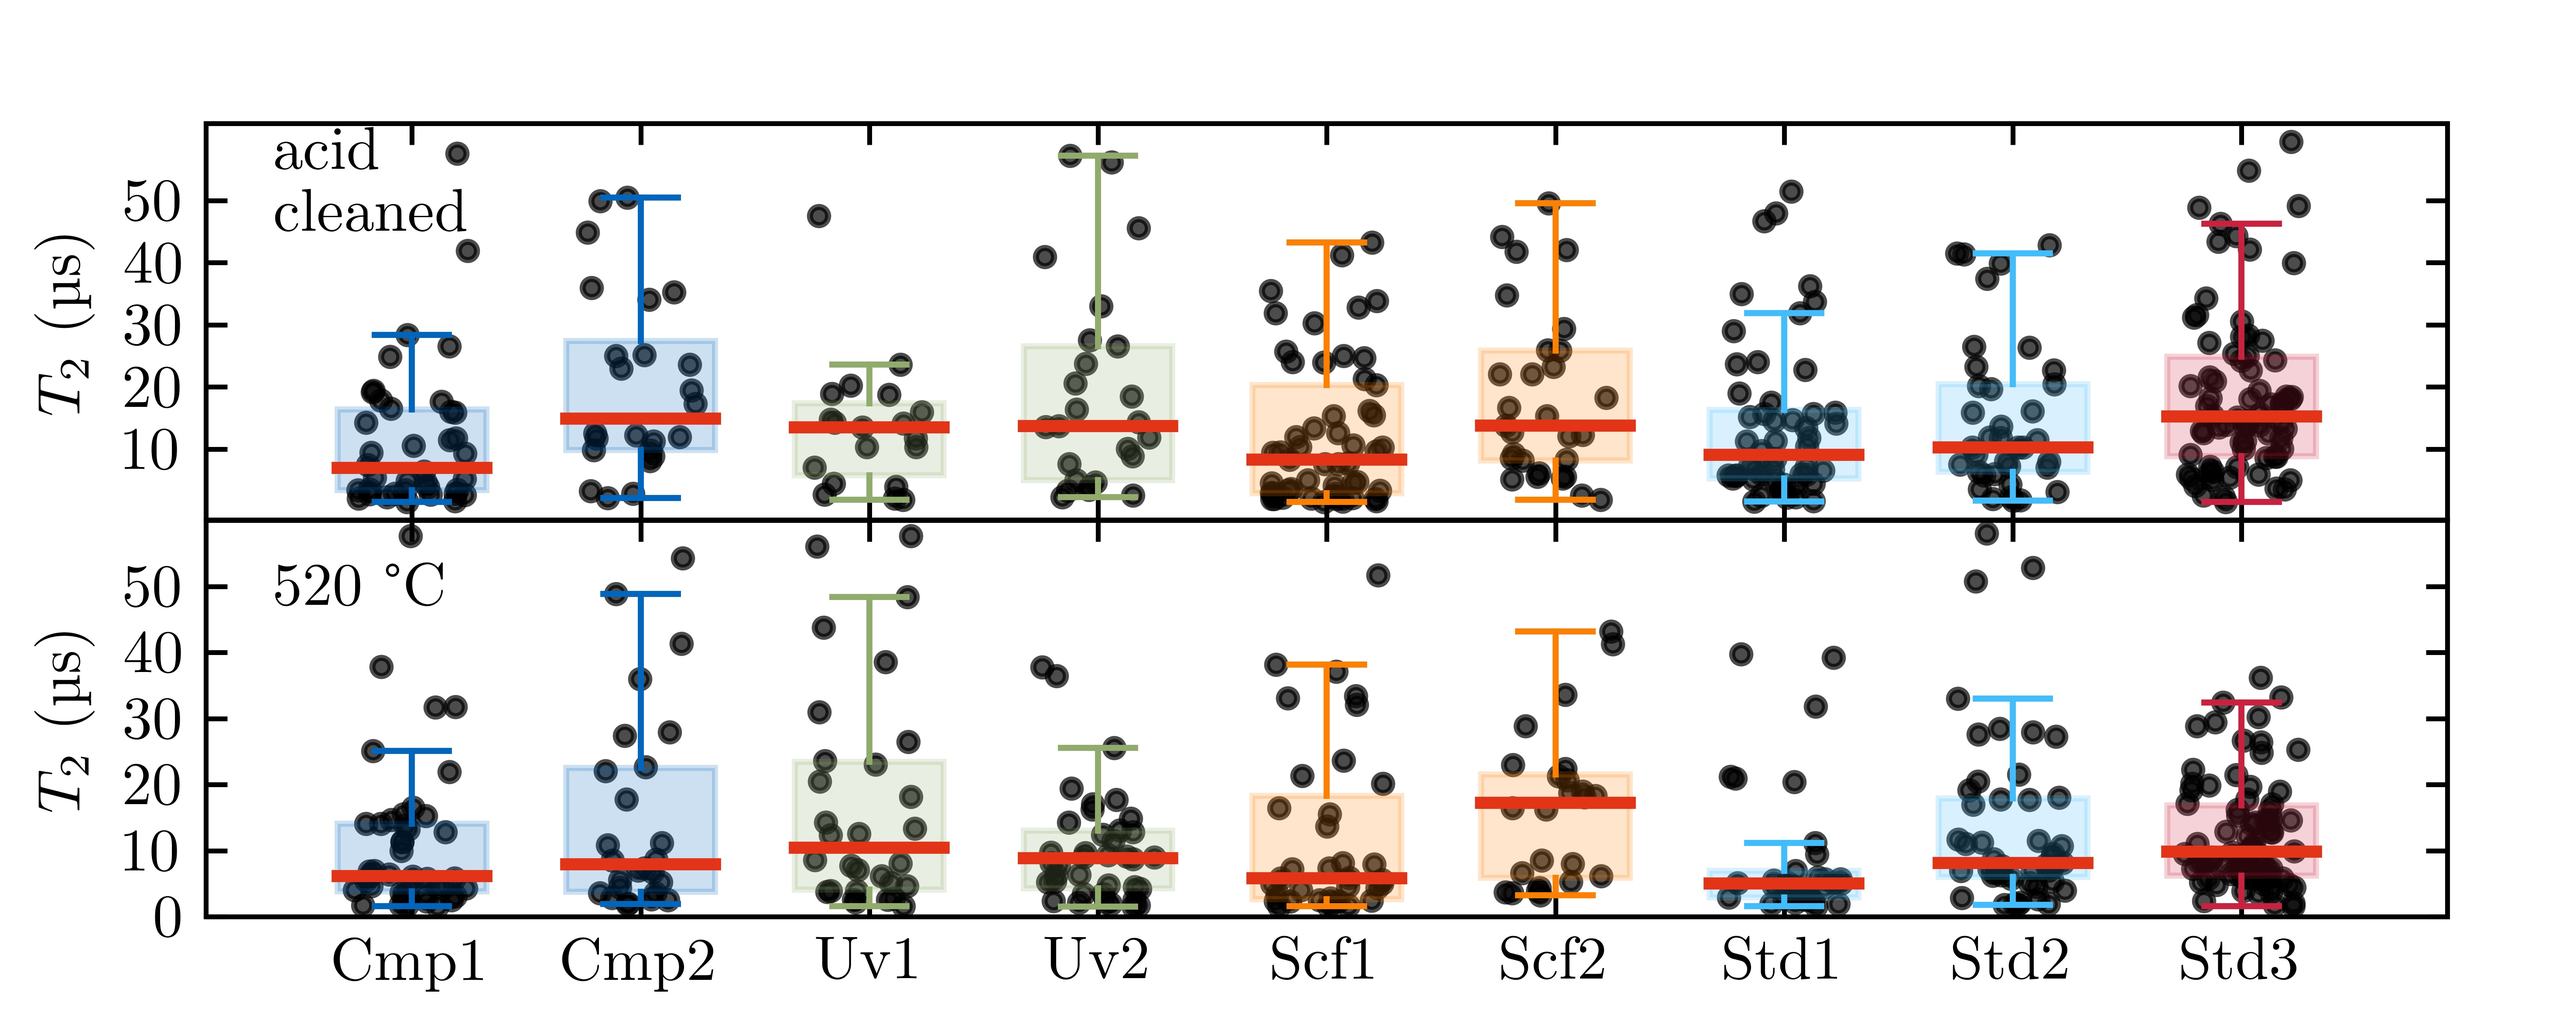
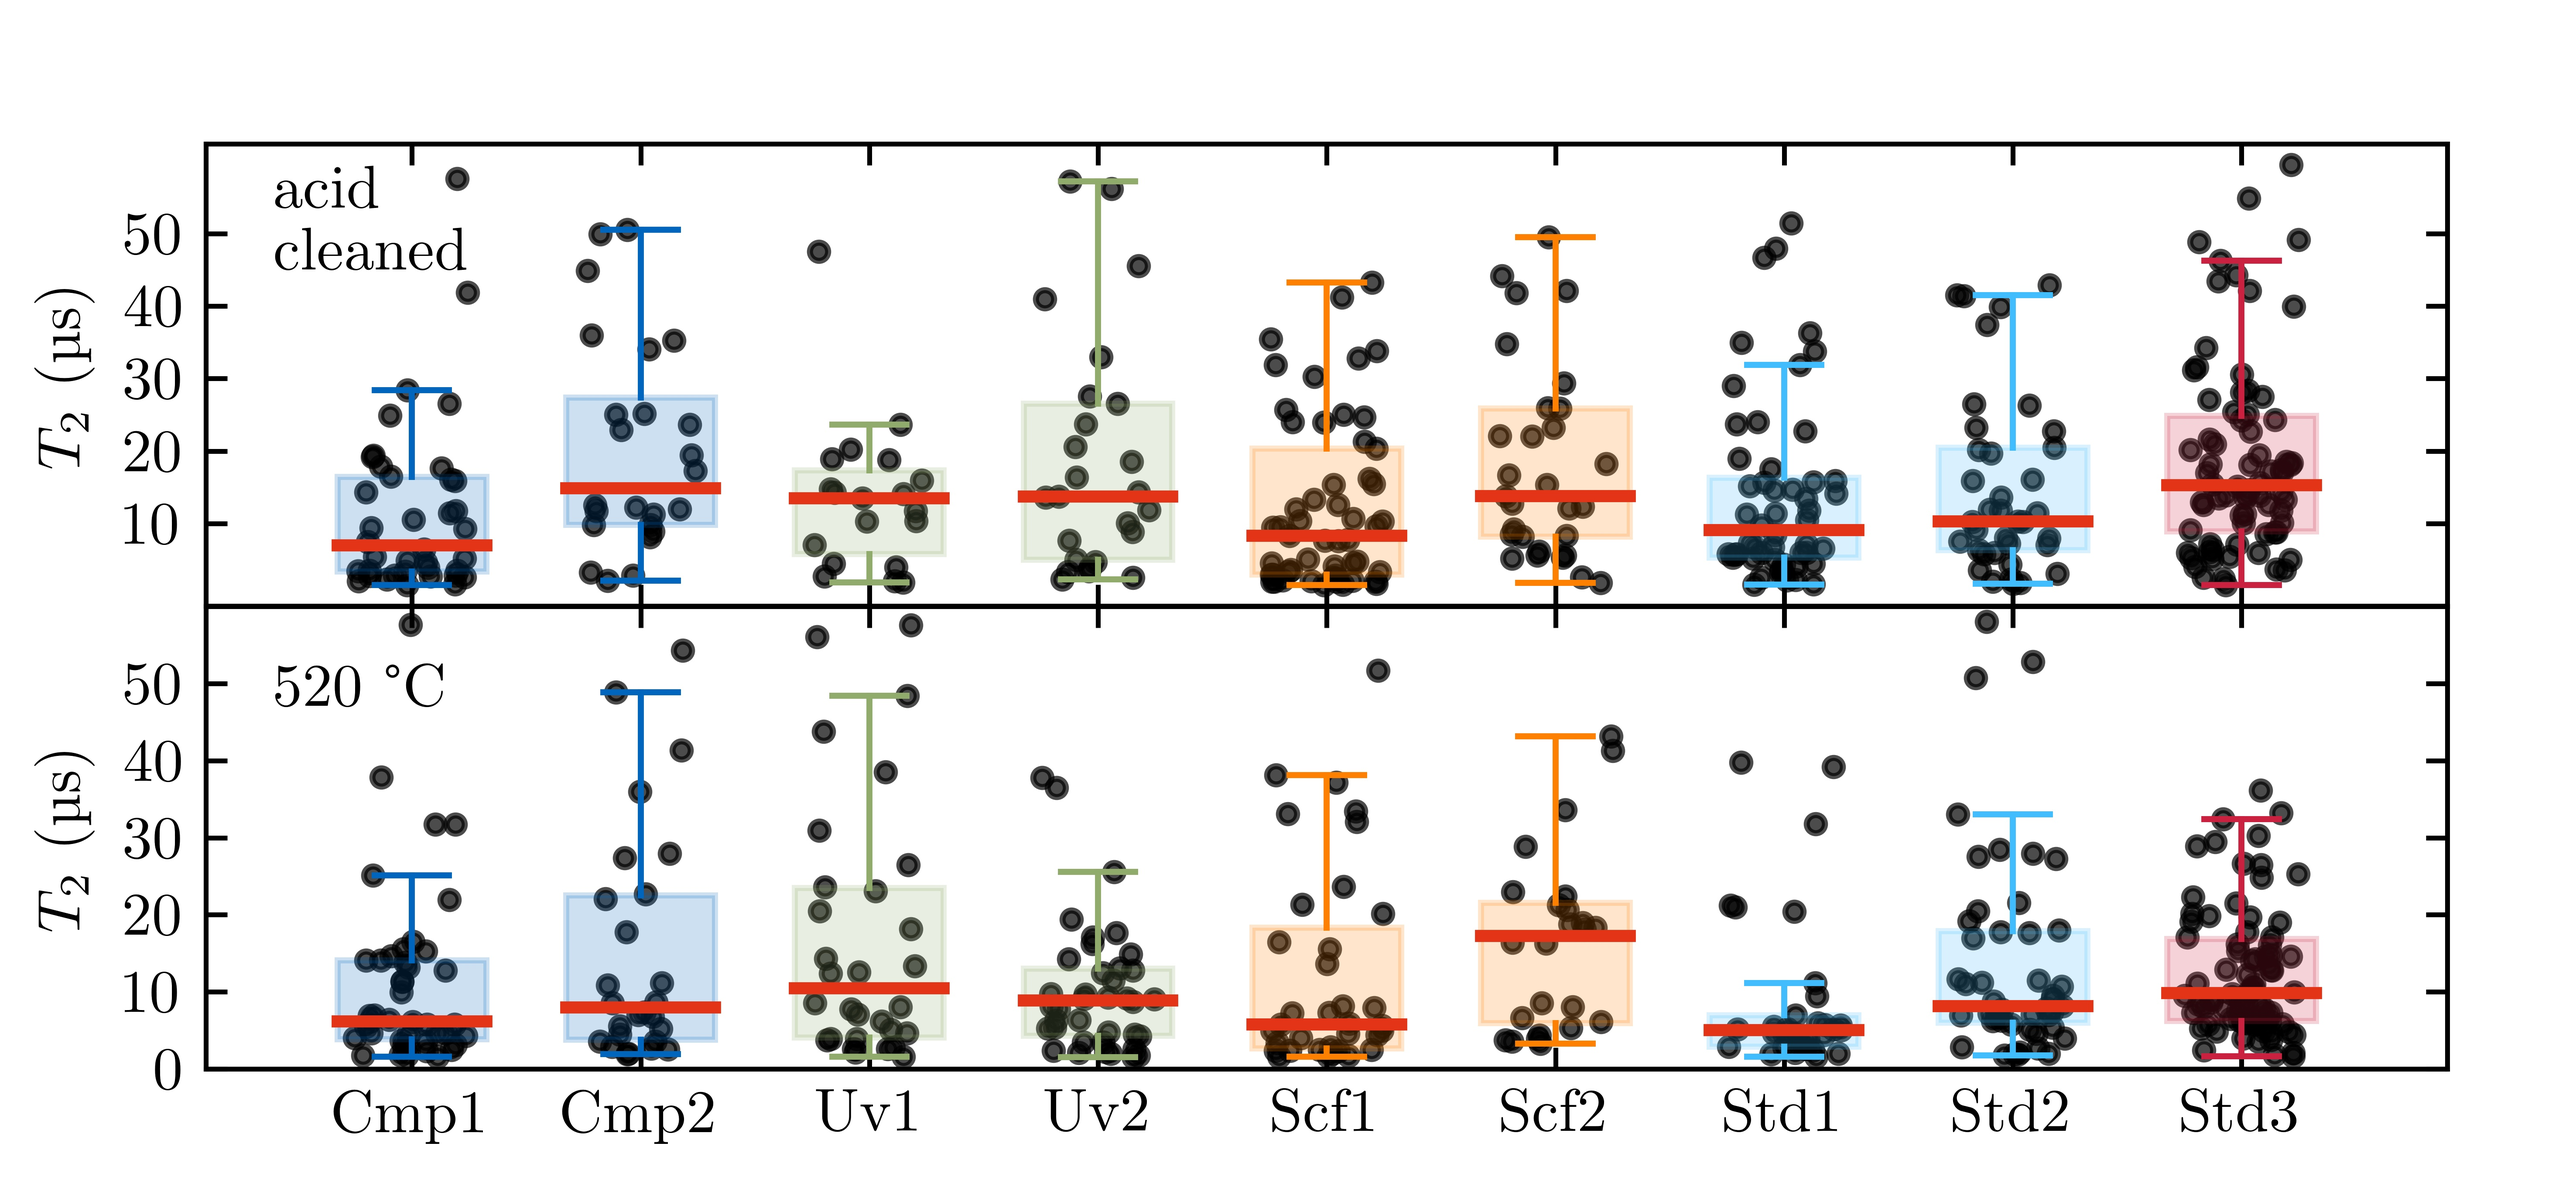
chapter6/h1_t2

diff --git a/images/chapter_6/oxidation_calibration.py b/images/chapter_6/oxidation_calibration.py
@@ -1,11 +1,11 @@
 # -*- coding: utf-8 -*-
 import glob
 import os
-import random
 
 import matplotlib.pyplot as plt
 import numpy
 
+from images.chapter_6.box_plot_functions import load_t2s_in_us, remove_average, create_random_x_offsets
 from util import tum_jet
 from util.inches import cm_to_inch
 
@@ -19,12 +19,13 @@ class OxidationCalibrationPlotter:
         self.lower_limit = 1.5
         self.box_color = tum_jet.tum_color(4)
         self.median_color = tum_jet.tum_color(5)
+        self.box_width = 0.4
 
     def plot(self):
 
         fig = plt.figure(figsize=(cm_to_inch(15), cm_to_inch(7)))
         t2s = self.__load_t2s()
-        xs = self.__create_random_x_offsets(t2s)
+        xs = create_random_x_offsets(t2s, self.box_width)
 
         self.__plot_boxes_and_datapoints(t2s, xs)
 
@@ -37,28 +38,18 @@ class OxidationCalibrationPlotter:
     def __plot_boxes_and_datapoints(self, t2s, xs):
         for t2_index, t2s_of_current_step in enumerate(t2s):
             plt.plot(xs[t2_index][:] + t2_index, t2s_of_current_step[:], '.k', alpha=0.7)
-            plt.boxplot(t2s_of_current_step[:], positions=[t2_index], widths=0.4, patch_artist=True,
+            plt.boxplot(t2s_of_current_step[:], positions=[t2_index], widths=self.box_width, patch_artist=True,
                         boxprops={'color': self.box_color, 'alpha': 0.2, 'facecolor': self.box_color},
                         whiskerprops={'color': self.box_color},
                         capprops={'color': self.box_color},
                         medianprops={'color': self.median_color, 'linewidth': 2},
                         showfliers=False)
 
-    @staticmethod
-    def __create_random_x_offsets(t2s):
-        xs = []
-        for t2 in t2s:
-            xs_of_this_step = numpy.zeros_like(t2)
-            for x_index in range(len(xs_of_this_step)):
-                xs_of_this_step[x_index] = random.uniform(-0.2, 0.2)
-            xs.append(xs_of_this_step)
-        return xs
-
     def __load_t2s(self):
         t2s = []
         for preparation_step in self.files:
-            t2s_of_this_step = self.__load_t2s_in_us(preparation_step)
-            self.__remove_average(t2s_of_this_step)
+            t2s_of_this_step = load_t2s_in_us(preparation_step)
+            remove_average(t2s_of_this_step)
             t2s_of_this_step = self.__remove_outliers(t2s_of_this_step)
             t2s.append(t2s_of_this_step)
         return t2s
@@ -67,16 +58,6 @@ class OxidationCalibrationPlotter:
         t2 *= (t2 < self.upper_limit)
         t2 *= (t2 > self.lower_limit)
         t2 = numpy.trim_zeros(numpy.sort(t2))
-        return t2
-
-    @staticmethod
-    def __remove_average(t2):
-        t2[-1] = 0
-
-    @staticmethod
-    def __load_t2s_in_us(preparation_step):
-        t2 = numpy.loadtxt(preparation_step + ".txt")
-        t2 /= 1000
         return t2
 
     def __get_file_names_ordered_chronologically(self):

diff --git a/images/chapter_6/h1_t2.py b/images/chapter_6/h1_t2.py
@@ -1,0 +1,71 @@
+import glob
+import os
+
+import matplotlib.pyplot as plt
+import numpy
+
+from images.chapter_6.box_plot_functions import load_t2s_in_us, remove_average, create_random_x_offsets
+from util import tum_jet
+from util.inches import cm_to_inch
+
+
+class H1T2Plotter:
+
+    def __init__(self):
+        self.data_folder = "h1_t2"
+        self.files = self.__get_file_names()
+        self.upper_limit = 60
+        self.lower_limit = 1.5
+        self.box_color = tum_jet.tum_color(4)
+        self.median_color = tum_jet.tum_color(5)
+        self.box_width = 0.25
+
+    def plot(self):
+        fig = plt.figure(figsize=(cm_to_inch(15), cm_to_inch(7)))
+        t2s = self.__load_t2s()
+        xs = create_random_x_offsets(t2s, self.box_width)
+
+        self.__plot_boxes_and_datapoints(t2s, xs)
+
+        plt.ylabel('$T_2$ (µs)')
+        plt.xlim([-0.6, 1.6])
+        plt.xticks(range(0, 2), ['acid \ncleaned', '520°C'])
+        plt.tight_layout()
+        fig.savefig(os.path.join(self.data_folder, 'h1_t2.jpg'), dpi=600)
+
+    def __get_file_names(self):
+        files = []
+        for file in glob.glob(os.path.join(self.data_folder, "*.txt")):
+            files.append(file.split('.')[0])
+        return files
+
+    def __load_t2s(self):
+        t2s = []
+        for preparation_step in self.files:
+            t2s_of_this_step = load_t2s_in_us(preparation_step)
+            remove_average(t2s_of_this_step)
+            t2s_of_this_step = self.__remove_outliers(t2s_of_this_step)
+            t2s.append(t2s_of_this_step)
+        return t2s
+
+    def __remove_outliers(self, t2):
+        t2 *= (t2 < self.upper_limit)
+        t2 *= (t2 > self.lower_limit)
+        t2 = numpy.trim_zeros(numpy.sort(t2))
+        return t2
+
+    def __plot_boxes_and_datapoints(self, t2s, xs):
+        for t2_index, t2s_of_current_step in enumerate(t2s):
+            print(numpy.median(t2s_of_current_step))
+            plt.plot(xs[t2_index][:] + t2_index, t2s_of_current_step[:], '.k', alpha=0.7)
+            plt.boxplot(t2s_of_current_step[:], positions=[t2_index], widths=self.box_width, patch_artist=True,
+                        boxprops={'color': self.box_color, 'alpha': 0.2, 'facecolor': self.box_color},
+                        whiskerprops={'color': self.box_color},
+                        capprops={'color': self.box_color},
+                        medianprops={'color': self.median_color, 'linewidth': 2},
+                        showfliers=False)
+
+
+if __name__ == '__main__':
+    plotter = H1T2Plotter()
+    plotter.plot()

diff --git a/images/chapter_6/box_plot_functions.py b/images/chapter_6/box_plot_functions.py
@@ -1,0 +1,23 @@
+import random
+
+import numpy
+
+
+def load_t2s_in_us(preparation_step):
+    t2 = numpy.loadtxt(preparation_step + ".txt")
+    t2 /= 1000
+    return t2
+
+
+def remove_average(t2):
+    t2[-1] = 0
+
+
+def create_random_x_offsets(t2s, width):
+    xs = []
+    for t2 in t2s:
+        xs_of_this_step = numpy.zeros_like(t2)
+        for x_index in range(len(xs_of_this_step)):
+            xs_of_this_step[x_index] = random.uniform(-width/2, width/2)
+        xs.append(xs_of_this_step)
+    return xs

diff --git a/images/chapter_6/t2_comparison.py b/images/chapter_6/t2_comparison.py
@@ -27,7 +27,7 @@ class ComparisonPlotter:
 
         xs = self.__create_random_xs(all_t2s_without_n)
 
-        fig = pylab.figure(figsize=(cm_to_inch(15), cm_to_inch(6)))
+        fig = pylab.figure(figsize=(cm_to_inch(15), cm_to_inch(7)))
         pylab.subplot(211)
         for i, t2s in enumerate(all_t2s_without_n):
             if i == 0:
